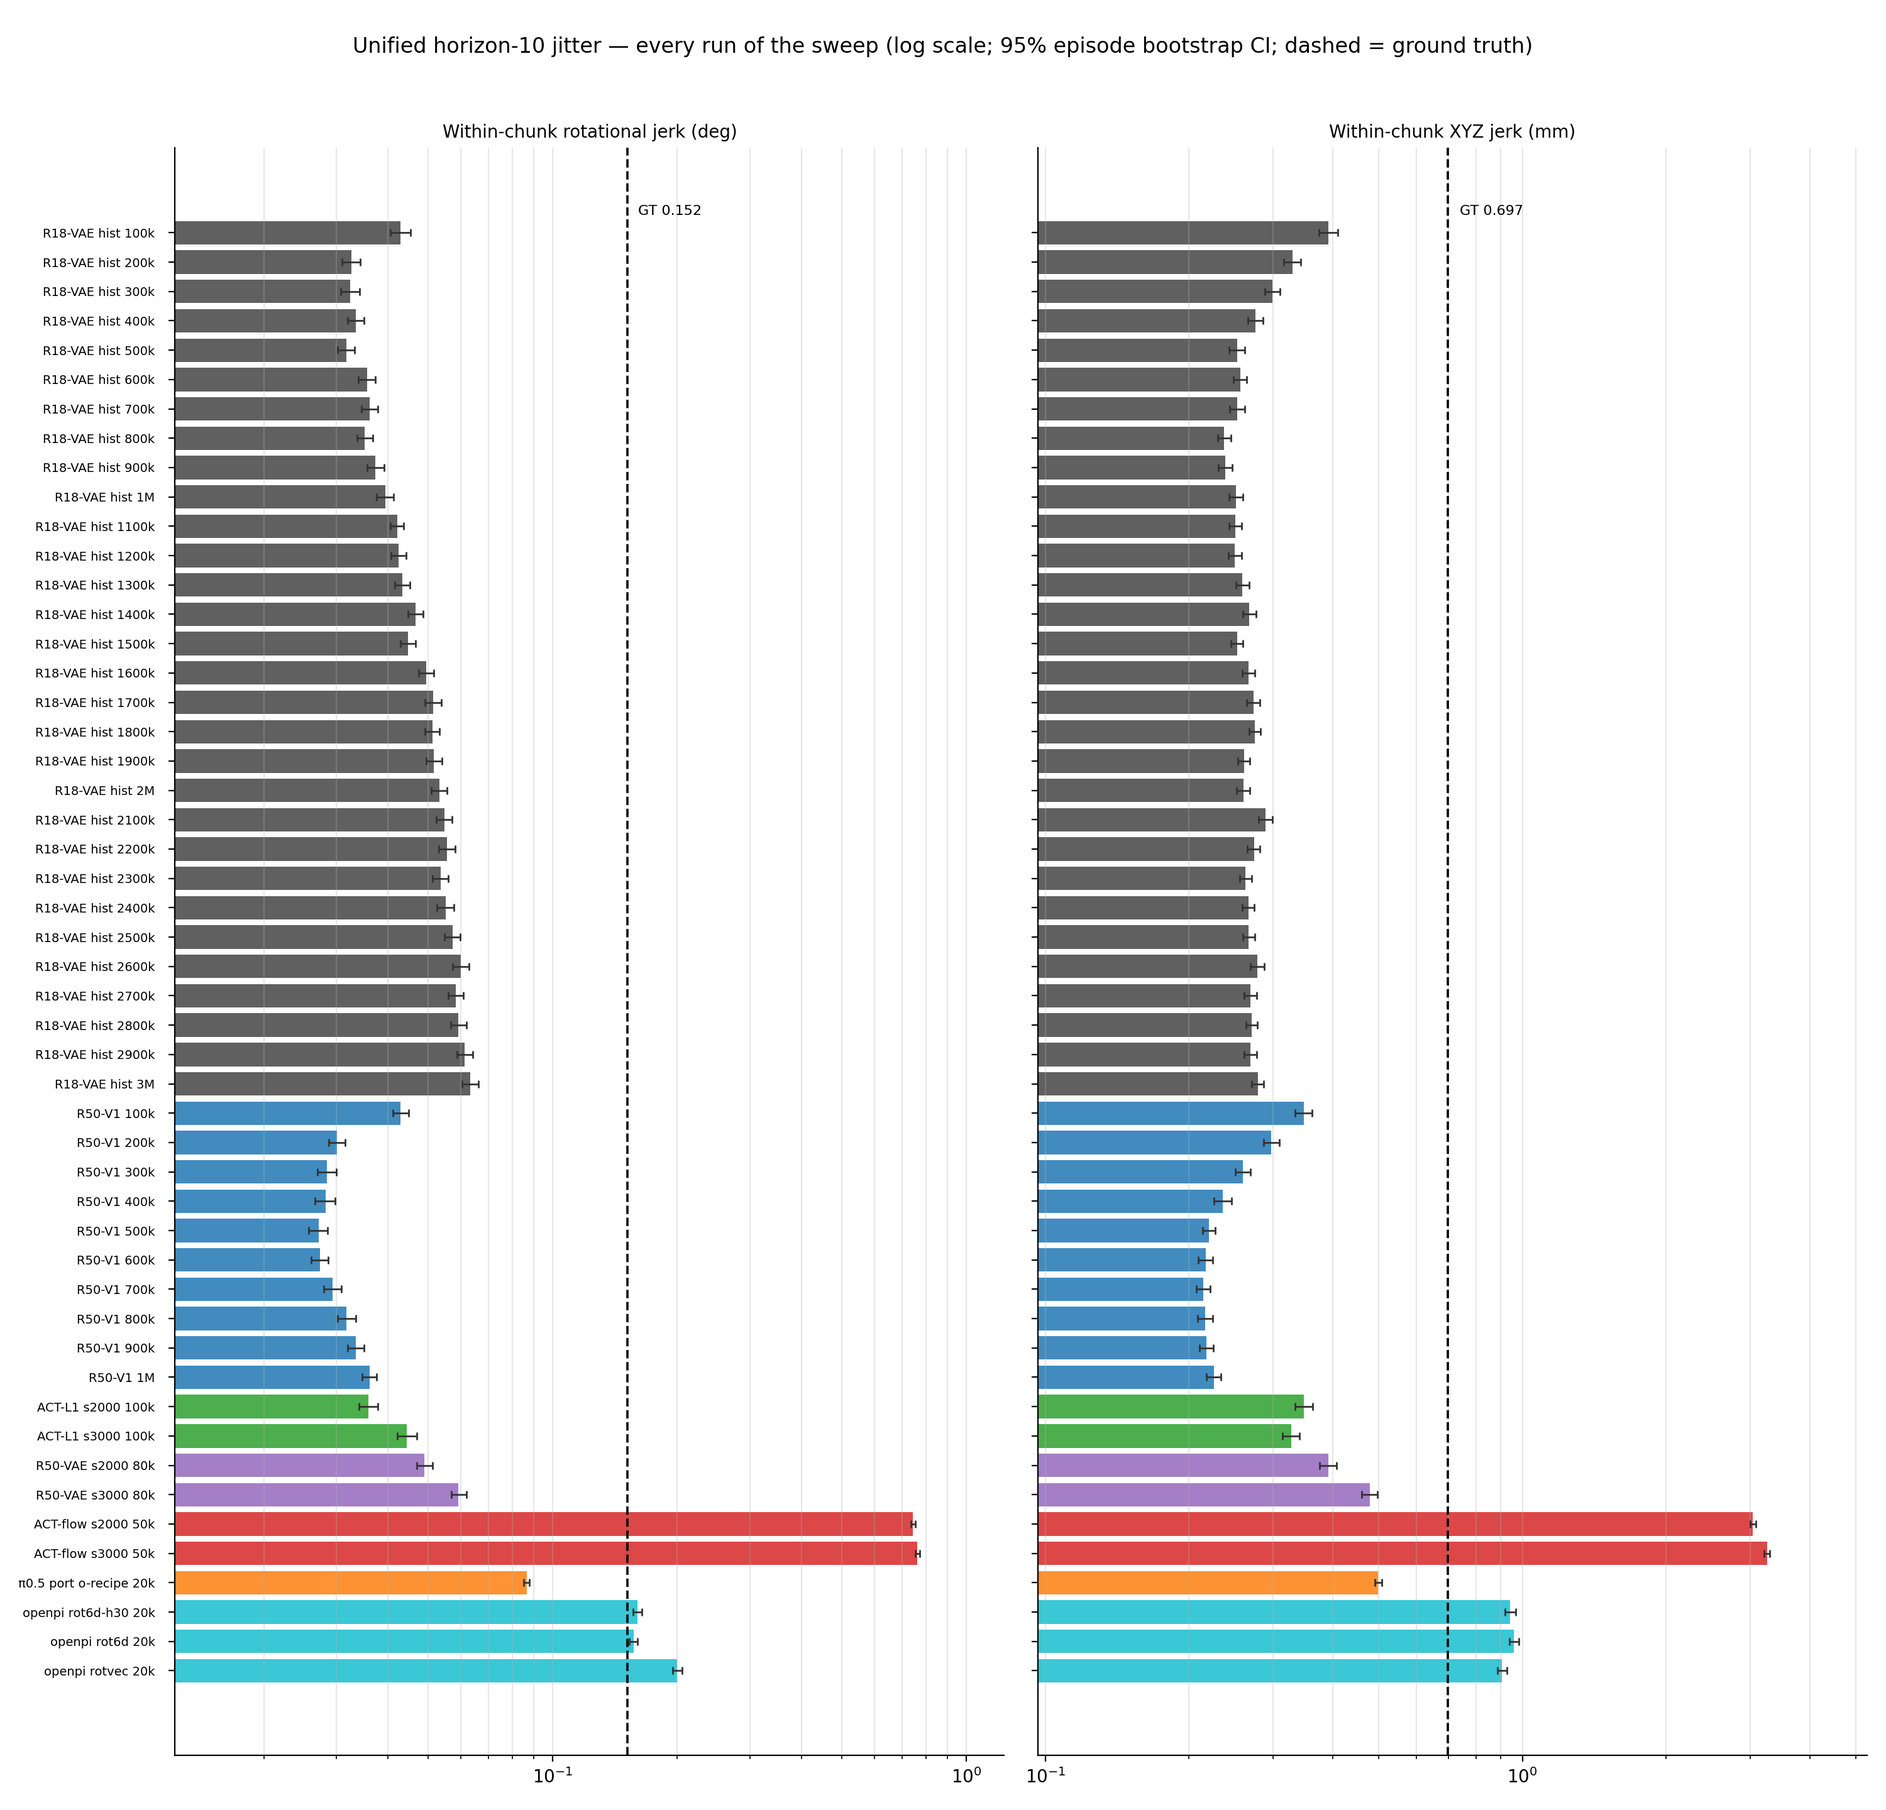
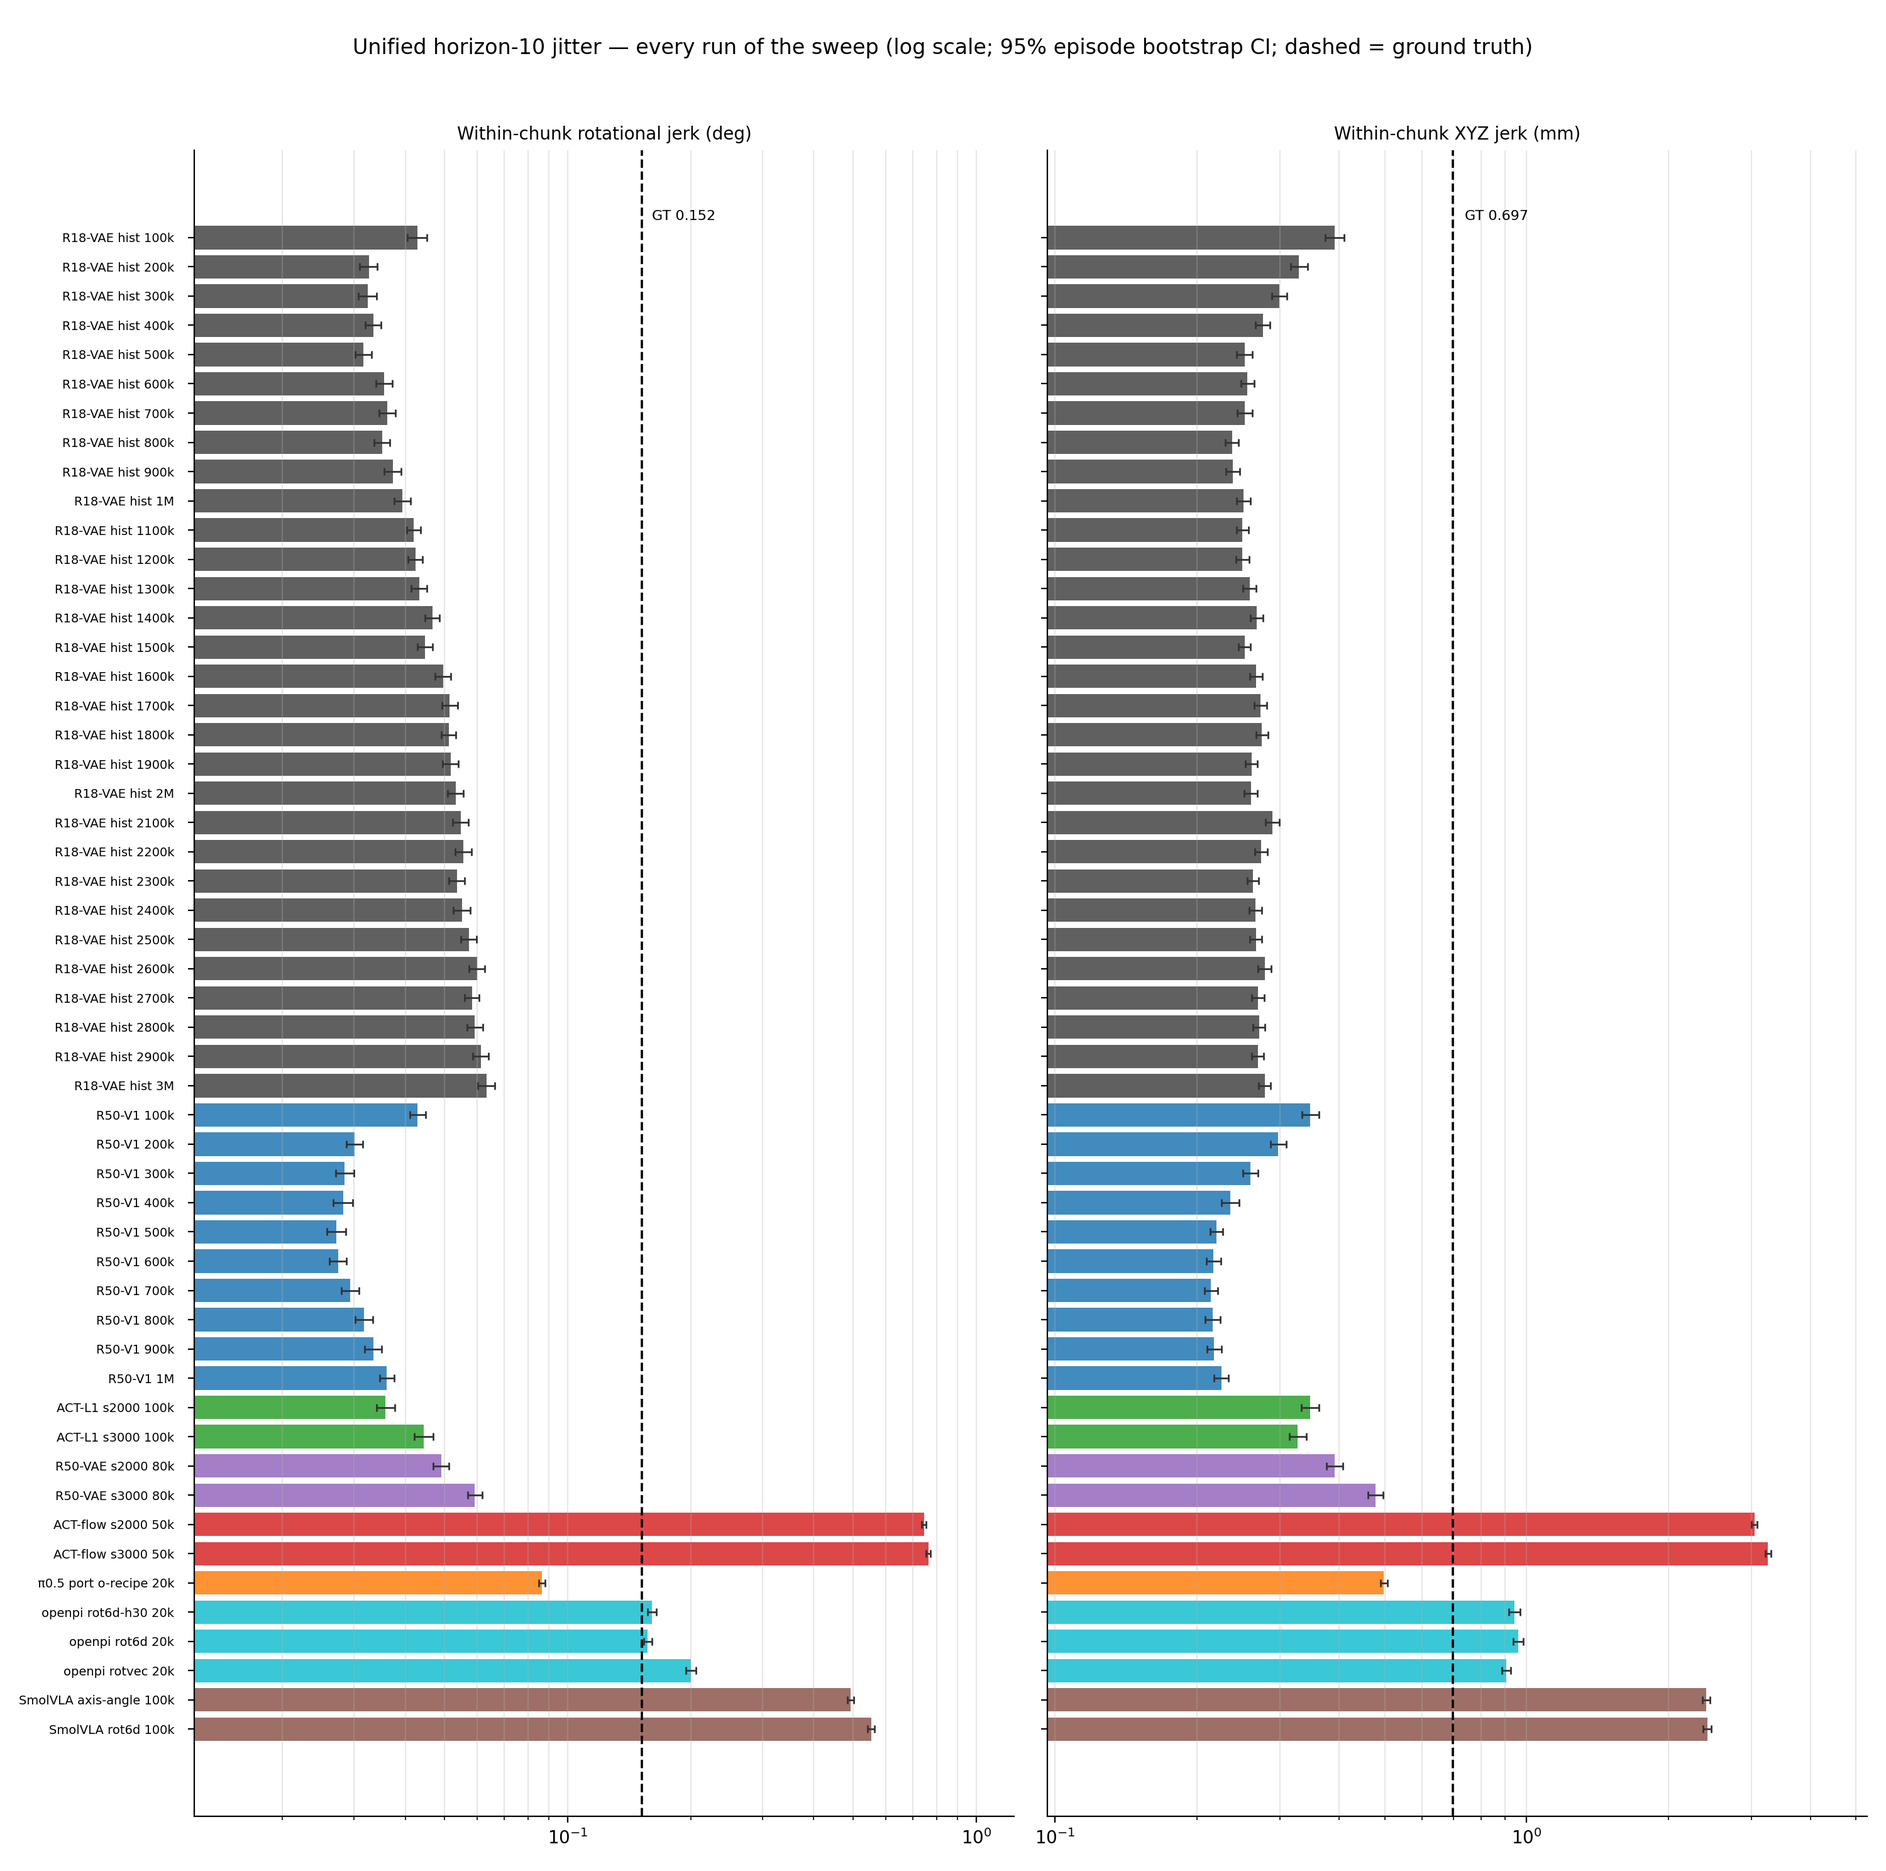
§9.2.9: SmolVLA unified-h10 rows — front-run on host from kiwi checkpoints (52 runs)
User noticed SmolVLA missing from the unified table. Its weights live on
kiwi (GPU busy with the pi05 1M trainer), so the two notation checkpoints
(seed 1000, 100k) were copied to the host tree and evaluated on the idle
host GPU with identical flags (~7.5 min, 3 inference seeds each).
Results: rot6d 9.08 / axis-angle 9.18 mm endpoint (tied with the best),
acc@0.1 0.931 both (table's highest point estimate, tied with R50-VAE),
notation tie holds with axis-angle smoother (0.49 vs 0.55 deg, the 9.2.3
direction); jitter remains ~3.3x GT (second-roughest family). Table,
read-outs 2/4/6, status paragraphs, all four figures updated; only kiwi
pi05-port rows remain pending.

diff --git a/examples/umi_relative_ee/act_flow_ablation/RESEARCH_REPORT.md b/examples/umi_relative_ee/act_flow_ablation/RESEARCH_REPORT.md
@@ -1,6 +1,6 @@
 # ACT capacity and flow-objective investigation
 
-**Status:** complete — seed-1000 controlled matrix (§9.1–9.2), π0.5 650K/700K flow-VLM reference (§9.2.2), SmolVLA rotation-notation ablation (§9.2.3), and the official-openpi rot6d-vs-rotvec replication (§9.2.4). §9.2.4 includes a horizon-matched correction: at equal 10-step scoring, SmolVLA / π0.5 port / official openpi are all statistically tied at 9–10 mm endpoint — earlier cross-model endpoint spreads were a horizon artifact; the real differentiators are smoothness and sample efficiency. The multi-seed (seed 2000/3000) confirmation was dropped for compute efficiency after two artifact-disk failures stranded the checkpoints (§8, incident 12); a 2026-08-17 salvage audit later found six seed-2000/3000 companion checkpoints alive at partial budgets and evaluated them (§9.2.6) — variant rank order replicates across training seeds — and then scored the fully-intact historical production ACT across its entire 100k–3M budget range on the same metric set (§9.2.7). Conclusions otherwise rest on a single training seed with per-episode bootstrap intervals, supplemented by the well-trained π0.5 references. A π0.5-port 700K→1M continuation is in flight on kiwi (resumed 2026-08-16, ETA ≈ 64 h; §9.2.2) — its evaluation will extend the §9.2.2 and horizon-10 tables when it lands. The horizon-30 openpi arm plus the JAX-vs-PyTorch matched-recipe stack A/B completed on 2026-08-17 (§9.2.5): scoring horizon alone moves the same openpi checkpoint 2.2× in endpoint error; h30 training costs ~15% near-horizon precision versus h10 training at equal budget; JAX-vs-PyTorch at matched recipe shows no accuracy gap but the PyTorch port is ~2× smoother; and the openpi recipe's ~9× sample efficiency transfers into the PyTorch stack. A fresh ACT R50-V1 1M-step run (seed 1000) completed on the host on 2026-08-18 (§9.2.8): its budget curve confirms the capacity conclusion — R50@100k already matches the historical R18@3M plateau and stays ~2 mm / ~2.7 pp acc@0.1 ahead through 1M, with no late smoothness penalty; notably, budget improves t+30 endpoint but *degrades* t+10 endpoint on the same checkpoints, so checkpoint selection must match the executed horizon. A unified horizon-10 re-evaluation of every surviving model under one protocol with the full metric set (endpoint pose, per-component L1 / per-dim MSE, accuracy@0.5/0.1 as co-primary metrics; §9.2.9) was launched 2026-08-18 — it re-scores, never retrains, and its metric definitions are normative for the report; its host rows landed the same day (at matched t+10, the ACT R50/L1 family statistically ties the 3B flow-VLMs at 9–11 mm endpoint / acc@0.1 0.92, the historical R18 sits above the pack at 12–13 mm even at 30× budget, and matched ACT-flow remains worst on every metric), with the kiwi rows pending.
+**Status:** complete — seed-1000 controlled matrix (§9.1–9.2), π0.5 650K/700K flow-VLM reference (§9.2.2), SmolVLA rotation-notation ablation (§9.2.3), and the official-openpi rot6d-vs-rotvec replication (§9.2.4). §9.2.4 includes a horizon-matched correction: at equal 10-step scoring, SmolVLA / π0.5 port / official openpi are all statistically tied at 9–10 mm endpoint — earlier cross-model endpoint spreads were a horizon artifact; the real differentiators are smoothness and sample efficiency. The multi-seed (seed 2000/3000) confirmation was dropped for compute efficiency after two artifact-disk failures stranded the checkpoints (§8, incident 12); a 2026-08-17 salvage audit later found six seed-2000/3000 companion checkpoints alive at partial budgets and evaluated them (§9.2.6) — variant rank order replicates across training seeds — and then scored the fully-intact historical production ACT across its entire 100k–3M budget range on the same metric set (§9.2.7). Conclusions otherwise rest on a single training seed with per-episode bootstrap intervals, supplemented by the well-trained π0.5 references. A π0.5-port 700K→1M continuation is in flight on kiwi (resumed 2026-08-16, ETA ≈ 64 h; §9.2.2) — its evaluation will extend the §9.2.2 and horizon-10 tables when it lands. The horizon-30 openpi arm plus the JAX-vs-PyTorch matched-recipe stack A/B completed on 2026-08-17 (§9.2.5): scoring horizon alone moves the same openpi checkpoint 2.2× in endpoint error; h30 training costs ~15% near-horizon precision versus h10 training at equal budget; JAX-vs-PyTorch at matched recipe shows no accuracy gap but the PyTorch port is ~2× smoother; and the openpi recipe's ~9× sample efficiency transfers into the PyTorch stack. A fresh ACT R50-V1 1M-step run (seed 1000) completed on the host on 2026-08-18 (§9.2.8): its budget curve confirms the capacity conclusion — R50@100k already matches the historical R18@3M plateau and stays ~2 mm / ~2.7 pp acc@0.1 ahead through 1M, with no late smoothness penalty; notably, budget improves t+30 endpoint but *degrades* t+10 endpoint on the same checkpoints, so checkpoint selection must match the executed horizon. A unified horizon-10 re-evaluation of every surviving model under one protocol with the full metric set (endpoint pose, per-component L1 / per-dim MSE, accuracy@0.5/0.1 as co-primary metrics; §9.2.9) was launched 2026-08-18 — it re-scores, never retrains, and its metric definitions are normative for the report; its host rows landed the same day (at matched t+10, the ACT R50/L1 family, SmolVLA, and the 3B flow-VLMs statistically tie at 9–11 mm endpoint / acc@0.1 0.92–0.93, the historical R18 sits above the pack at 12–13 mm even at 30× budget, and matched ACT-flow remains worst on every metric), with only the kiwi π0.5-port rows pending.
 **Started:** 2026-08-11  
 **Branch:** `research/umi-act-flowmatching-ablation-20260811`  
 **Source baseline:** `3feb3f3e`  
@@ -1671,8 +1671,13 @@ families — superseded by their 100k+ checkpoints. Outputs live under
 plus a cross-schema compiler; drivers: `eval_unified_h10_sweep.sh` (host),
 `kiwi_eval_unified_h10.sh` (kiwi, K-phase).
 
-**Status: host rows complete (2026-08-18, all 50 runs incl. the R50-V1 1M
-final); kiwi rows pending.** The host sweep evaluated the full inventory as a
+**Status: host rows complete (2026-08-18, all 52 runs incl. the R50-V1 1M
+final and both SmolVLA notations); only the kiwi π0.5-port rows
+(1M/700K/650K) remain pending.** The SmolVLA rows were front-run on
+2026-08-18: the two kiwi-trained checkpoints were copied (weights only) to
+the host artifact tree and evaluated on the then-idle host GPU with
+identical flags (`eval_smolvla_unified_h10_host.sh`) rather than waiting
+for the kiwi trainer to free that machine. The host sweep evaluated the full inventory as a
 VRAM-gated backfill alongside the R50 trainer (the final two rows — R50-V1
 900k/1M — landed when training exited at 16:16); every report passed the
 protocol assertions programmatically — canonical bounds `[-1,31]`, horizon 10,
@@ -1684,8 +1689,8 @@ with the assertions above; LeRobot rows re-derived per-episode →
 inference-seed-averaged → bootstrapped, openpi rows taken from the
 evaluator's own episode-balanced summary) →
 `results/unified_h10_run_summary.csv`; figures via `plot_unified_h10.py`.
-Still pending: the kiwi rows (π0.5 port 1M/700K/650K, SmolVLA both notations
-— K1–K4). Complete results — every run of the sweep is tabulated below (no
+Still pending: the kiwi π0.5-port rows (1M/700K/650K — K1/K2, after the
+trainer exits ≈2026-08-19). Complete results — every run of the sweep is tabulated below (no
 figure-only results: the metrics figure shows a one-per-family subset of
 exactly these rows, and every point of the budget figure is one of these
 rows). Run names are the artifact-tree names under
@@ -1746,7 +1751,8 @@ per-dimension (µm² / deg²):
 | pi05_lora_sroi_rotvec_seed1000_0020000steps | 20000 | 11.00 [10.31, 11.68] | 1.65 [1.56, 1.74] | 2.97 | 22.5 | 0.489 | 0.53 | 0.993 | 0.920 [0.914, 0.926] | 0.200 |
 | pi05_port_openpi_recipe_seed1000_020000steps | 20000 | 9.57 [9.07, 10.08] | 1.81 [1.73, 1.89] | 2.42 | 15.3 | 0.482 | 0.54 | 0.993 | 0.920 [0.914, 0.925] | 0.086 |
 | π0.5 port 1M / 700K / 650K (kiwi) | — | *pending K4* | | | | | | | | | |
-| SmolVLA rot6d / axis-angle (kiwi) | 100k | *pending K4* | | | | | | | | | |
+| smolvla_rot6d_seed1000_100000steps | 100000 | 9.08 [8.62, 9.57] | 1.66 [1.59, 1.74] | 2.26 | 12.9 | 0.455 | 0.45 | 0.993 | 0.931 [0.927, 0.935] | 0.552 |
+| smolvla_axis_angle_seed1000_100000steps | 100000 | 9.18 [8.71, 9.66] | 1.68 [1.61, 1.76] | 2.28 | 13.1 | 0.459 | 0.45 | 0.993 | 0.931 [0.927, 0.936] | 0.492 |
 
 ![Unified horizon-10 metrics across all surviving models](figures/unified_h10_metrics.png)
 
@@ -1770,10 +1776,13 @@ Host-side read-outs (kiwi rows will extend, not re-rank, these):
 2. **At matched horizon the ACT capacity/objective family ties the 3B
    flow-VLMs.** R50-V1 @100k (9.20 mm, acc@0.1 0.921), the R50-VAE
    companions @80k (9.15–9.18 mm, 0.926–0.929), and ACT-L1 @100k
-   (9.59–9.88 mm, 0.916–0.920) all land inside the openpi/Arm-B interval
-   band (9.57–11.00 mm, 0.918–0.920) — the §9.2.4/§9.2.5 tie now extends to
-   the ACT side of the ledger: what separates models at t+10 is capacity and
-   objective recipe, not parameter count or stack. The historical R18
+   (9.59–9.88 mm, 0.916–0.920) and SmolVLA @100k (9.08–9.18 mm, 0.931)
+   all land inside or at the edge of the openpi/Arm-B interval band
+   (9.57–11.00 mm, 0.918–0.920) — the §9.2.4/§9.2.5 tie now extends to
+   both the ACT side and the 450M SmolVLA: what separates models at t+10 is
+   capacity and objective recipe, not parameter count or stack. SmolVLA's
+   acc@0.1 point estimate (0.931) is nominally the table's best, but its
+   interval overlaps the R50-VAE companions' (0.929) — tied, not ahead. The historical R18
    production model sits visibly above the pack (12.0–13.1 mm, 0.88–0.90)
    even at 30× budget.
 3. **Near-horizon budget behavior differs by family.** The historical R18
@@ -1790,17 +1799,21 @@ Host-side read-outs (kiwi rows will extend, not re-rank, these):
    @50k is worst on every co-primary metric at t+10 too (15.0–15.6 mm,
    acc@0.1 0.840–0.843, MSE:L1 tail ratio 9.6–11.3 µm/mm vs ≈6 for the
    others), and its rot-jerk (0.74–0.76°) is 5–25× rougher than every other
-   family. The Q2 conclusion (ACT-transformer denoiser/conditioning recipe,
+   family. SmolVLA is the second-roughest (0.49–0.55° ≈ 3.3× GT) — the only
+   surviving families above ground-truth jerk are SmolVLA, the openpi arms
+   (0.157–0.200°), and ACT-flow. The Q2 conclusion (ACT-transformer denoiser/conditioning recipe,
    not flow matching itself) survives the horizon change unaltered.
 5. **acc@0.5 is saturated for every surviving model** (0.991–0.994, spread
    below the interval half-widths): motion-intent precision is solved
    across the board; only acc@0.1 separates families — the τ-doctrine
    finding of §9.2.7 generalized to every stack in the inventory.
-6. **The rotation-notation tie holds under the canonical protocol**:
-   openpi rotvec vs rot6d at t+10 tie on acc@0.1 (0.920 vs 0.919) and
-   rotvec is even better on rotation endpoint (1.65° vs 1.80°, disjoint),
-   while rot6d is better on XYZ endpoint — no notation lever, mirroring
-   §9.2.3/§9.2.4 from the other direction.
+6. **The rotation-notation tie holds under the canonical protocol in both
+   stacks**: SmolVLA axis-angle vs rot6d tie on endpoint (9.18 vs 9.08 mm,
+   overlapping intervals) and acc@0.1 (0.931 both), with axis-angle again
+   smoother in rotation (0.49° vs 0.55° — the §9.2.3 direction); openpi
+   rotvec vs rot6d tie on acc@0.1 (0.920 vs 0.919) and rotvec is even
+   better on rotation endpoint (1.65° vs 1.80°, disjoint), while rot6d is
+   better on XYZ endpoint — no notation lever in either stack.
 
 ### 9.3 Answers and promotion decision after stage one
 
@@ -2611,7 +2624,10 @@ The unified horizon-10 sweep (§9.2.9) has its own drivers:
 `eval_unified_h10_sweep.sh` (host: historical ACT curve, seed-23k companions,
 R50-V1 curve, official openpi arms under the canonical query window) and
 `kiwi_eval_unified_h10.sh` (π0.5 port 650K/700K/1M, SmolVLA notations; run on
-kiwi after the 1M training exits). Both are idempotent and write
+kiwi after the 1M training exits) — the SmolVLA h10 rows were front-run on
+2026-08-18 by `eval_smolvla_unified_h10_host.sh` (checkpoints copied from
+kiwi, identical flags, host GPU), so K1's SmolVLA section is a redundant
+cross-machine check. Both are idempotent and write
 RUN_RE-compatible report trees under `reeval_v2metrics/eval_unified_h10/`.
 Because the tree mixes the two evaluators' report schemas, collection is done
 by the dedicated cross-schema compiler, which enforces the §9.2.9 protocol
